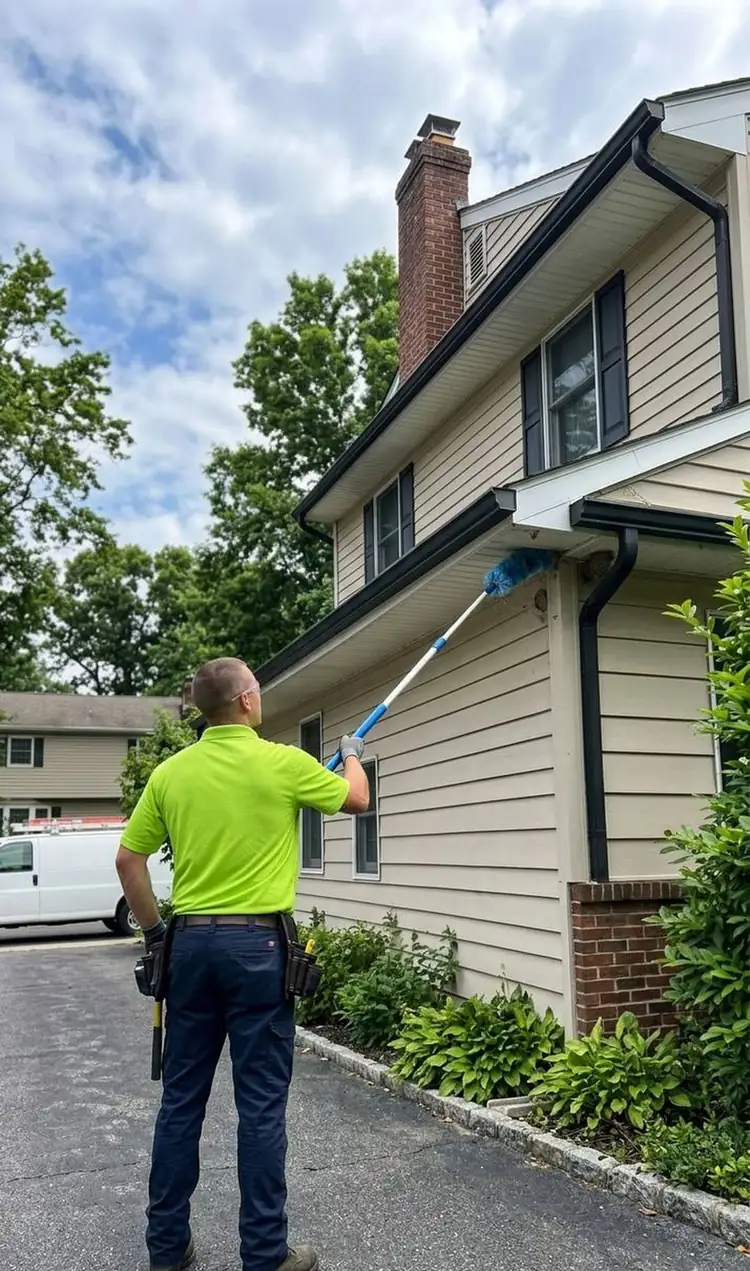
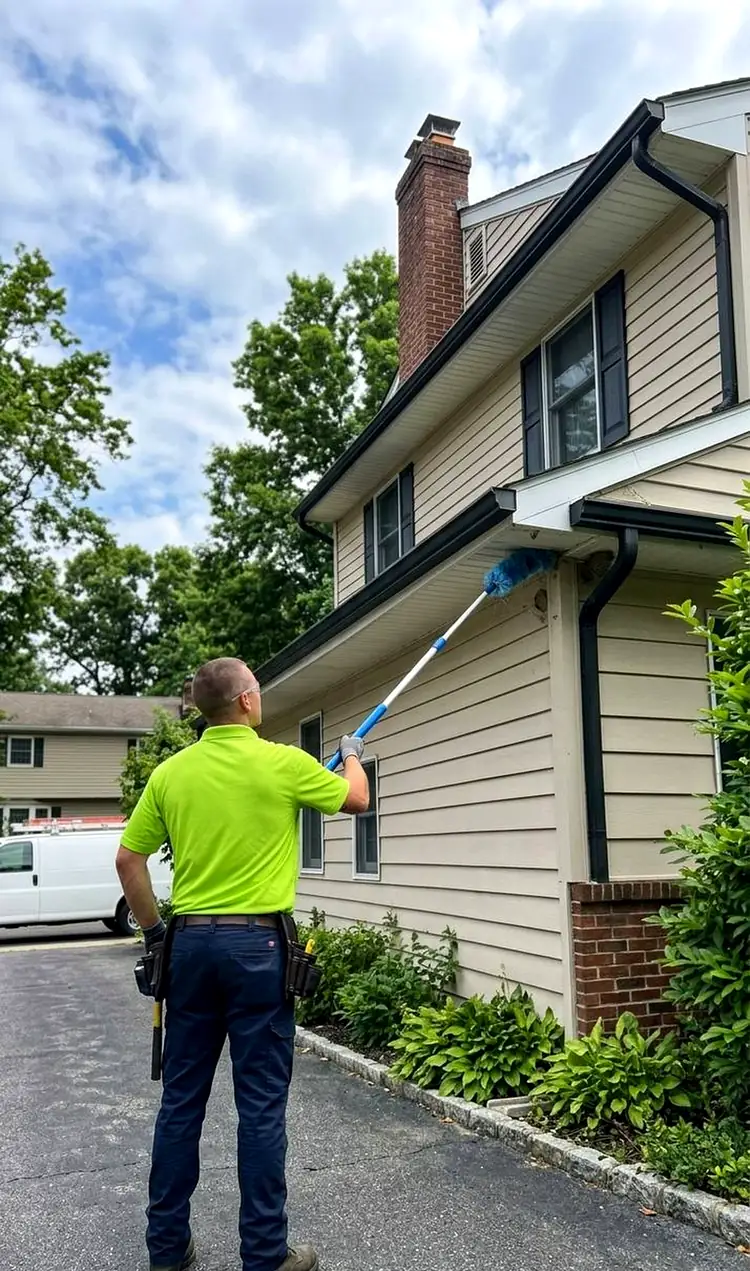
Stronger photos and headlines per owner feedback
- Pest chips rebuilt at 192px from the high-res source photos
  (wasp 1499px, stinkbug 3888px, lanternfly 960px originals) with
  sharpening and color pop; chips display at 96px with an offset
  shadow; roach recropped
- Hero, plan, and owner-placeholder photos color-graded (saturation,
  contrast, sharpness) for a less flat look
- Headlines bumped to Archivo 900 and larger sizes; highlight blocks
  squared up (no skew, cleaner inset, rounded corners)

Changed region(s): [[0.368, 0.6444, 0.3987, 0.6751], [0.3373, 0.6751, 0.368, 0.7057], [0.184, 0.6137, 0.2147, 0.6444]]

diff --git a/index.html b/index.html
@@ -29,7 +29,7 @@
 <!-- Fonts -->
 <link rel="preconnect" href="https://fonts.googleapis.com">
 <link rel="preconnect" href="https://fonts.gstatic.com" crossorigin>
-<link href="https://fonts.googleapis.com/css2?family=Archivo:wght@400;600;700;800&display=swap" rel="stylesheet">
+<link href="https://fonts.googleapis.com/css2?family=Archivo:wght@400;600;700;800;900&display=swap" rel="stylesheet">
 
 <!-- LCP hero preload -->
 <link rel="preload" as="image"
@@ -123,9 +123,9 @@ a{color:inherit;}
 .section{padding-block:clamp(3.5rem,9vw,6.25rem);}
 section[id]{scroll-margin-top:90px;}
 
-h2.sec-title{font-weight:800;letter-spacing:-0.03em;line-height:1.12;font-size:clamp(1.75rem,3.5vw,2.6rem);margin-bottom:0.6em;}
+h2.sec-title{font-weight:900;letter-spacing:-0.03em;line-height:1.1;font-size:clamp(2rem,4vw,3.1rem);margin-bottom:0.6em;}
 .hl{position:relative;display:inline-block;color:var(--ink);z-index:0;}
-.hl::before{content:'';position:absolute;inset:0.08em -0.12em;background:var(--chartreuse);transform:skew(-2deg);border-radius:4px;z-index:-1;}
+.hl::before{content:'';position:absolute;inset:0.1em -0.18em 0.02em;background:var(--chartreuse);border-radius:6px;z-index:-1;}
 .eyebrow{font-weight:800;font-size:0.8125rem;text-transform:uppercase;letter-spacing:0.1em;}
 .lead{font-weight:600;font-size:1.1875rem;}
 .fine{font-size:0.8125rem;color:var(--gray-mut);}
@@ -199,7 +199,7 @@ body.menu-open{overflow:hidden;}
 .hero-grid{display:grid;grid-template-columns:1.1fr 0.9fr;gap:clamp(2rem,5vw,4rem);align-items:center;}
 .hero-chip-owned{display:inline-block;background:var(--white);border:2px solid var(--navy);border-radius:10px;padding:7px 14px;font-weight:800;font-size:0.8125rem;text-transform:uppercase;letter-spacing:0.08em;margin-bottom:22px;}
 h1{margin-bottom:20px;}
-.h1-shout{display:block;font-weight:800;letter-spacing:-0.035em;line-height:1.05;font-size:clamp(2.25rem,4.7vw,3.6rem);}
+.h1-shout{display:block;font-weight:900;letter-spacing:-0.035em;line-height:1.04;font-size:clamp(2.4rem,5vw,4rem);}
 .h1-geo{display:block;font-weight:700;font-size:1.125rem;letter-spacing:0;margin-top:14px;color:var(--ink);line-height:1.4;}
 .hero-sub{max-width:560px;margin-bottom:24px;}
 .hero-checks{list-style:none;display:flex;flex-direction:column;gap:11px;margin-bottom:28px;}
@@ -230,8 +230,8 @@ h1{margin-bottom:20px;}
 .legend .sw.pk{background:var(--navy);}
 .legend .sw.tr{background:var(--lime);}
 .pests-grid{display:grid;grid-template-columns:repeat(3,1fr);gap:24px;row-gap:66px;margin-top:44px;}
-.pest-card{position:relative;padding:56px 22px 20px;display:flex;flex-direction:column;gap:10px;}
-.pest-chip{position:absolute;top:-44px;left:22px;width:88px;height:88px;border-radius:50%;border:3px solid var(--navy);background:var(--tint);overflow:hidden;}
+.pest-card{position:relative;padding:62px 22px 20px;display:flex;flex-direction:column;gap:10px;}
+.pest-chip{position:absolute;top:-48px;left:22px;width:96px;height:96px;border-radius:50%;border:3px solid var(--navy);background:var(--tint);overflow:hidden;box-shadow:4px 4px 0 rgba(27,47,94,0.15);}
 .pest-chip img{width:100%;height:100%;object-fit:cover;}
 .pest-card h3{font-weight:800;font-size:1.2rem;line-height:1.25;letter-spacing:-0.01em;}
 .pest-card .p-body{font-size:0.9375rem;line-height:1.6;flex:1;}
@@ -529,7 +529,7 @@ fieldset.f-field legend{font-weight:700;font-size:0.875rem;margin-bottom:8px;pad
     <div class="pests-grid" data-reveal>
 
       <div class="card lift pest-card">
-        <span class="pest-chip"><img src="pest-ant-176.webp" alt="Carpenter ant close-up" width="88" height="88" loading="lazy"></span>
+        <span class="pest-chip"><img src="pest-ant-192.webp" alt="Carpenter ant close-up" width="96" height="96" loading="lazy"></span>
         <h3>Carpenter Ant Control</h3>
         <p class="p-body">They nest in damp sills and porch posts, and you rarely see more than a few scouts. We find the nest, treat it directly, and barrier the perimeter.</p>
         <div class="mstrip" aria-hidden="true">
@@ -544,7 +544,7 @@ fieldset.f-field legend{font-weight:700;font-size:0.875rem;margin-bottom:8px;pad
       </div>
 
       <div class="card lift pest-card">
-        <span class="pest-chip"><img src="pest-wasp-176.webp" alt="Yellowjacket wasp close-up" width="88" height="88" loading="lazy"></span>
+        <span class="pest-chip"><img src="pest-wasp-192.webp" alt="Yellowjacket wasp close-up" width="96" height="96" loading="lazy"></span>
         <h3>Wasp, Hornet &amp; Yellowjacket Nest Removal</h3>
         <p class="p-body">Eaves, soffits, deck rails, and ground nests. June nests are small and simple to treat. August nests are not. We handle both.</p>
         <div class="mstrip" aria-hidden="true">
@@ -559,7 +559,7 @@ fieldset.f-field legend{font-weight:700;font-size:0.875rem;margin-bottom:8px;pad
       </div>
 
       <div class="card lift pest-card">
-        <span class="pest-chip"><img src="pest-roach-176.webp" alt="German cockroach close-up" width="88" height="88" loading="lazy"></span>
+        <span class="pest-chip"><img src="pest-roach-192.webp" alt="German cockroach close-up" width="96" height="96" loading="lazy"></span>
         <!-- Roach photo: Wikimedia Commons "Blattella germanica 1236168.jpg", CC BY 3.0 US -->
         <h3>Cockroach Extermination</h3>
         <p class="p-body">Kitchens and baths, behind the fridge, under the sink. Gel bait plus crack and crevice treatment, with the follow-up included.</p>
@@ -575,7 +575,7 @@ fieldset.f-field legend{font-weight:700;font-size:0.875rem;margin-bottom:8px;pad
       </div>
 
       <div class="card lift pest-card">
-        <span class="pest-chip"><img src="pest-rodent-176.webp" alt="House mouse close-up" width="88" height="88" loading="lazy"></span>
+        <span class="pest-chip"><img src="pest-rodent-192.webp" alt="House mouse close-up" width="96" height="96" loading="lazy"></span>
         <h3>Mice &amp; Rat Control</h3>
         <p class="p-body">A mouse fits through a gap the width of a dime, and fall is the push indoors. Stations, traps, and entry point notes on every report.</p>
         <div class="mstrip" aria-hidden="true">
@@ -590,7 +590,7 @@ fieldset.f-field legend{font-weight:700;font-size:0.875rem;margin-bottom:8px;pad
       </div>
 
       <div class="card lift pest-card">
-        <span class="pest-chip"><img src="pest-stinkbug-176.webp" alt="Brown marmorated stink bug close-up" width="88" height="88" loading="lazy"></span>
+        <span class="pest-chip"><img src="pest-stinkbug-192.webp" alt="Brown marmorated stink bug close-up" width="96" height="96" loading="lazy"></span>
         <h3>Stink Bug Control</h3>
         <p class="p-body">They gather on south facing siding in September and winter inside your walls. The barrier has to go on <strong>before</strong> they push in.</p>
         <div class="mstrip" aria-hidden="true">
@@ -605,7 +605,7 @@ fieldset.f-field legend{font-weight:700;font-size:0.875rem;margin-bottom:8px;pad
       </div>
 
       <div class="card lift pest-card">
-        <span class="pest-chip"><img src="pest-lanternfly-176.webp" alt="Spotted lanternfly close-up" width="88" height="88" loading="lazy"></span>
+        <span class="pest-chip"><img src="pest-lanternfly-192.webp" alt="Spotted lanternfly close-up" width="96" height="96" loading="lazy"></span>
         <h3>Spotted Lanternfly Treatment</h3>
         <p class="p-body">Egg masses, nymphs, and adult swarms <strong>on your home, deck, and exterior perimeter</strong>. Hatch starts late April, and adults swarm from August to frost.</p>
         <div class="mstrip" aria-hidden="true">
